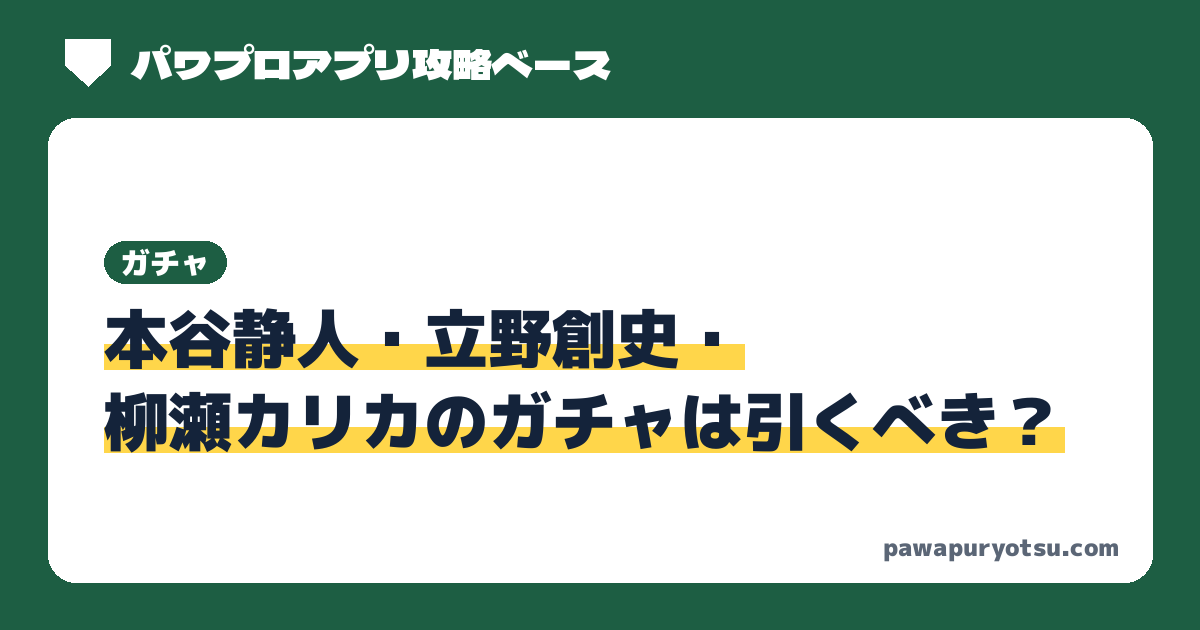
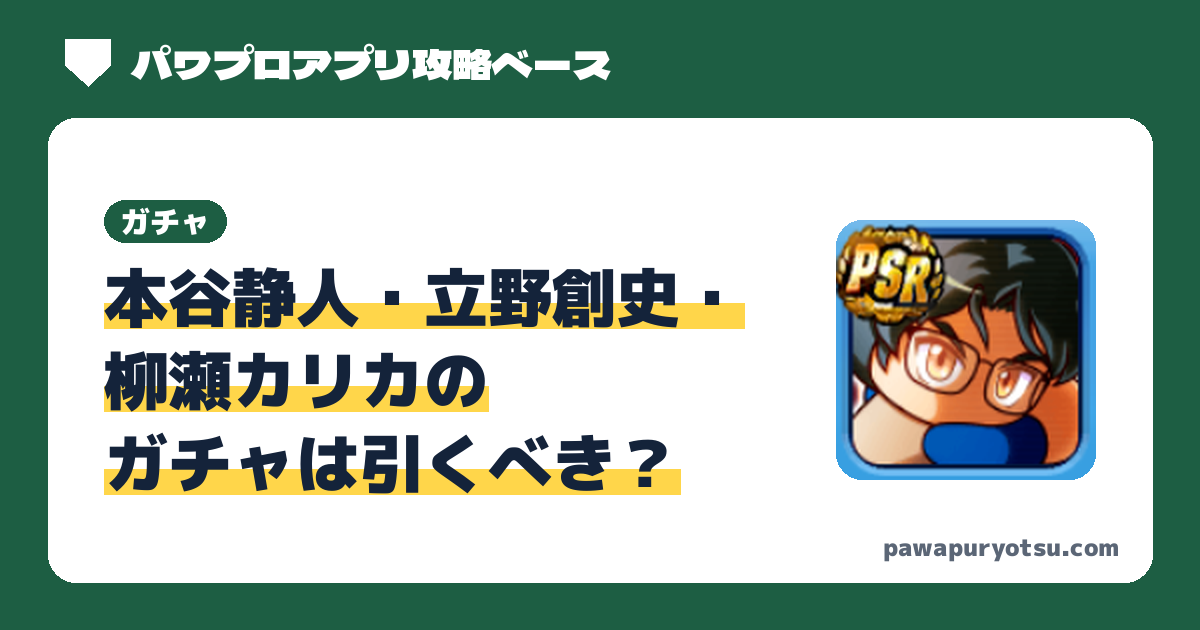
古書館ガチャ記事：管理人の評価とアイコンを追加
Claude-Session: https://claude.ai/code/session_019YJeSx5dxs1nGuihVMdo1E

Changed region(s): [[0.0617, 0.3016, 0.925, 0.7841]]

diff --git a/docs/index.html b/docs/index.html
@@ -24,7 +24,7 @@
 <link rel="preconnect" href="https://fonts.googleapis.com">
 <link rel="preconnect" href="https://fonts.gstatic.com" crossorigin>
 <link rel="stylesheet" href="https://fonts.googleapis.com/css2?family=Dela+Gothic+One&family=M+PLUS+1p:wght@900&family=Zen+Kaku+Gothic+New:wght@400;500;700;900&family=Saira+Condensed:wght@600;700&display=swap">
-<link rel="stylesheet" href="./assets/style.css?v=c98ad340">
+<link rel="stylesheet" href="./assets/style.css?v=90712465">
 <meta name="google-adsense-account" content="ca-pub-8546020269968696">
 <script async src="https://pagead2.googlesyndication.com/pagead/js/adsbygoogle.js?client=ca-pub-8546020269968696" crossorigin="anonymous"></script>
 <script async src="https://www.googletagmanager.com/gtag/js?id=G-F98XGNW3LS"></script>
@@ -71,10 +71,11 @@
 </section>
 
 <h2 class="sec"><span class="mk red"><i>最近の更新</i></span></h2>
-<!--recent--><ul class="news recent"><li class=rc-noimg data-until="2026-12-17T14:00"><a href="./success/koshokan/"><span><small class="rc-meta">2026/11/26 公開</small><b>古書館高校の攻略</b></span></a></li><li data-until="2026-12-10T14:00"><a href="./chars/0045/"><img class="news-icon" src="./img/chars/0045.png" alt="" width="44" height="44" loading="lazy"><span><small class="rc-meta">2026/11/26 公開・イベキャラ</small><b>立野創史のデータ</b></span></a></li><li data-until="2026-12-10T14:00"><a href="./chars/0044/"><img class="news-icon" src="./img/chars/0044.png" alt="" width="44" height="44" loading="lazy"><span><small class="rc-meta">2026/11/26 公開・イベキャラ</small><b>柳瀬カリカのデータ</b></span></a></li><li data-until="2026-12-10T14:00"><a href="./chars/0043/"><img class="news-icon" src="./img/chars/0043.png" alt="" width="44" height="44" loading="lazy"><span><small class="rc-meta">2026/11/26 公開・イベキャラ</small><b>本谷静人のデータ</b></span></a></li><li data-until="2026-12-04T14:00"><a href="./gacha/2026_1116_shido_remi/"><img class="news-icon" src="./img/chars/0010.png" alt="" width="44" height="44" loading="lazy"><span><small class="rc-meta">2026/11/17 公開・ガチャ</small><b>[エアギター]志藤玲美<wbr><span class="cp-nw">の復刻ガチャは引くべき？</span></b></span></a></li><li data-until="2026-12-06T14:00"><a href="./pawaque/saikyuki/"><img class="news-icon news-logo" src="./img/pawaque/saikyuki_logo.png" alt="" width="80" height="44" loading="lazy"><span><small class="rc-meta">2026/11/26 更新・パワクエ</small><b>パワクエ西球記の攻略</b></span></a></li><li class=rc-noimg data-until="9999-12-31T00:00"><a href="./ranking/next_batter/"><span><small class="rc-meta">2026/11/11 公開・ランキング</small><b>古書館高校 有能キャラ予想</b></span></a></li><li class=rc-noimg data-until="9999-12-31T00:00"><a href="./ranking/roman/"><span><small class="rc-meta">2026/11/05 公開・ランキング</small><b>ロマン開花學園 11月ランキング</b></span></a></li><li class=rc-noimg data-until="9999-12-31T00:00"><a href="./ranking/andromeda/"><span><small class="rc-meta">2026/11/05 公開・ランキング</small><b>アンドロメダ学園 11月ランキング</b></span></a></li></ul><script>(function(){var d=new Date(Date.now()+9*36e5).toISOString().slice(0,16),n=0;document.querySelectorAll('.news.recent li').forEach(function(li){var u=li.getAttribute('data-until');if((u&&u<=d)||n>=8)li.remove();else n++;});})();</script><!--/recent-->
+<!--recent--><ul class="news recent"><li class=rc-noimg data-until="2026-12-17T14:00"><a href="./success/koshokan/"><span><small class="rc-meta">2026/11/26 公開</small><b>古書館高校の攻略</b></span></a></li><li data-until="2027-02-01T14:00"><a href="./gacha/2026_1126_koshokan/"><img class="news-icon" src="./img/chars/0043.png" alt="" width="44" height="44" loading="lazy"><span><small class="rc-meta">2026/11/26 公開・ガチャ</small><b>本谷静人・立野創史・柳瀬カリカ<wbr><span class="cp-nw">のガチャは引くべき？</span></b></span></a></li><li data-until="2026-12-09T14:00"><a href="./chars/0045/"><img class="news-icon" src="./img/chars/0045.png" alt="" width="44" height="44" loading="lazy"><span><small class="rc-meta">2026/11/25 公開・イベキャラ</small><b>立野創史<wbr><span class="cp-nw">のイベント</span></b></span></a></li><li data-until="2026-12-09T14:00"><a href="./chars/0044/"><img class="news-icon" src="./img/chars/0044.png" alt="" width="44" height="44" loading="lazy"><span><small class="rc-meta">2026/11/25 公開・イベキャラ</small><b>柳瀬カリカ<wbr><span class="cp-nw">のイベント</span></b></span></a></li><li data-until="2026-12-09T14:00"><a href="./chars/0043/"><img class="news-icon" src="./img/chars/0043.png" alt="" width="44" height="44" loading="lazy"><span><small class="rc-meta">2026/11/25 公開・イベキャラ</small><b>本谷静人<wbr><span class="cp-nw">のイベント</span></b></span></a></li><li data-until="2026-12-14T14:00"><a href="./pawaque/saikyuki/"><img class="news-icon news-logo" src="./img/pawaque/saikyuki_logo.png" alt="" width="80" height="44" loading="lazy"><span><small class="rc-meta">2026/11/26 更新・パワクエ</small><b>パワクエ西球記の攻略</b></span></a></li><li class=rc-noimg data-until="9999-12-31T00:00"><a href="./ranking/roman/"><span><small class="rc-meta">2026/11/22 公開・ランキング</small><b>ロマン開花學園 11月ランキング</b></span></a></li><li class=rc-noimg data-until="9999-12-31T00:00"><a href="./ranking/next_batter/"><span><small class="rc-meta">2026/11/22 公開・ランキング</small><b>古書館高校 有能キャラ予想</b></span></a></li><li class=rc-noimg data-until="9999-12-31T00:00"><a href="./ranking/andromeda/"><span><small class="rc-meta">2026/11/22 公開・ランキング</small><b>アンドロメダ学園 11月ランキング</b></span></a></li><li data-until="2026-12-04T14:00"><a href="./gacha/2026_1116_shido_remi/"><img class="news-icon" src="./img/chars/0010.png" alt="" width="44" height="44" loading="lazy"><span><small class="rc-meta">2026/11/22 公開・ガチャ</small><b>[エアギター]志藤玲美<wbr><span class="cp-nw">の復刻ガチャは引くべき？</span></b></span></a></li><li data-until="2026-12-06T14:00"><a href="./chars/0042/"><img class="news-icon" src="./img/chars/0042.png" alt="" width="44" height="44" loading="lazy"><span><small class="rc-meta">2026/11/22 公開・イベキャラ</small><b>シャンプー<wbr><span class="cp-nw">のイベント・評価</span></b></span></a></li><li data-until="2026-12-06T14:00"><a href="./chars/0004/"><img class="news-icon" src="./img/chars/0004.png" alt="" width="44" height="44" loading="lazy"><span><small class="rc-meta">2026/11/22 公開・イベキャラ</small><b>響良牙<wbr><span class="cp-nw">のイベント・評価</span></b></span></a></li><li data-until="2026-12-06T14:00"><a href="./chars/0003/"><img class="news-icon" src="./img/chars/0003.png" alt="" width="44" height="44" loading="lazy"><span><small class="rc-meta">2026/11/22 公開・イベキャラ</small><b>天道あかね<wbr><span class="cp-nw">のイベント・評価</span></b></span></a></li><li data-until="2026-12-06T14:00"><a href="./chars/0002/"><img class="news-icon" src="./img/chars/0002.png" alt="" width="44" height="44" loading="lazy"><span><small class="rc-meta">2026/11/22 公開・イベキャラ</small><b>早乙女乱馬<wbr><span class="cp-nw">のイベント・評価</span></b></span></a></li></ul><script>(function(){var d=new Date(Date.now()+9*36e5).toISOString().slice(0,16),n=0;document.querySelectorAll('.news.recent li').forEach(function(li){var u=li.getAttribute('data-until');if((u&&u<=d)||n>=8)li.remove();else n++;});})();</script><!--/recent-->
 
 <h2 class="sec"><span class="mk orange"><i>ガチャ</i></span></h2>
 <div class="grid2 hg">
+  <a class="scard gcard" href="./gacha/2026_1126_koshokan/"><span class="gc-icons"><img src="./img/chars/0043.png" alt="" width="48" height="48" loading="lazy"><img src="./img/chars/0045.png" alt="" width="48" height="48" loading="lazy"><img src="./img/chars/0044.png" alt="" width="48" height="48" loading="lazy"></span><span class="tag p">本谷静人・立野創史・柳瀬カリカ</span><h3><span class="cp-nw">本谷静人・立野創史・柳瀬カリカの</span><span class="cp-nw">ガチャは</span><span class="cp-nw">引くべき？</span></h3><p>SR Lv45・PSR Lv50の完成確率と<span class="cp-nw">シミュレータ。</span></p><span class="go" aria-hidden="true">→</span></a>
   <a class="scard gcard" href="./gacha/2026_1116_shido_remi/"><span class="gc-icons"><img src="./img/chars/0010.png" alt="" width="48" height="48" loading="lazy"></span><span class="tag p">[エアギター]志藤玲美</span><h3><span class="cp-nw">[エアギター]志藤玲美の</span><span class="cp-nw">復刻ガチャは</span><span class="cp-nw">引くべき？</span></h3><p>SR Lv45・PSR Lv50の完成確率と<span class="cp-nw">シミュレータ。</span></p><span class="go" aria-hidden="true">→</span></a>
   <a class="scard" href="./gacha/past/"><h3>過去のガチャ</h3><p>ガチャ期間が終了したガチャの<span class="cp-nw">記事をまとめています。</span></p><span class="go" aria-hidden="true">→</span></a>
 </div>

diff --git a/docs/gacha/2026_1126_koshokan/index.html b/docs/gacha/2026_1126_koshokan/index.html
@@ -24,7 +24,7 @@
 <link rel="preconnect" href="https://fonts.googleapis.com">
 <link rel="preconnect" href="https://fonts.gstatic.com" crossorigin>
 <link rel="stylesheet" href="https://fonts.googleapis.com/css2?family=Dela+Gothic+One&family=M+PLUS+1p:wght@900&family=Zen+Kaku+Gothic+New:wght@400;500;700;900&family=Saira+Condensed:wght@600;700&display=swap">
-<link rel="stylesheet" href="../../assets/style.css?v=c98ad340">
+<link rel="stylesheet" href="../../assets/style.css?v=90712465">
 <meta name="google-adsense-account" content="ca-pub-8546020269968696">
 <script async src="https://pagead2.googlesyndication.com/pagead/js/adsbygoogle.js?client=ca-pub-8546020269968696" crossorigin="anonymous"></script>
 <script async src="https://www.googletagmanager.com/gtag/js?id=G-F98XGNW3LS"></script>
@@ -59,8 +59,8 @@
 <nav class="crumbs" aria-label="パンくずリスト"><ol><li><a href="../../">トップ</a></li><li aria-current="page">本谷静人・立野創史・柳瀬カリカのガチャ</li></ol></nav>
 <section class="phead"><p class="eyebrow">ガチャ</p><h1><span class="mk"><i>本谷静人・</i><i>立野創史・</i><i>柳瀬カリカの</i> <i>ガチャは</i> <i>引くべき？</i></span></h1><p class="pubdate">公開日 <time datetime="2026-11-26">2026/11/26</time>・更新日 <time datetime="2026-11-26">2026/11/26</time></p><p>ループガチャ 古書館高校デビューで、本谷静人・立野創史・柳瀬カリカのSR Lv45・PSR Lv50を作るのに何周必要かを<span class="cp-nw">計算しました。</span>引くべきか迷っている人は、下の確率と<span class="cp-nw">石の数を目安にしてください。</span></p></section>
 <div class="prose">
-  <div class="g-info"><p>開催期間：<span class="cp-nw">2026年11月26日(木)</span>メンテナンス終了後〜<span class="cp-nw">2月1日(月)8:59</span></p><p class="g-meta"><span><a href="../../chars/0043/">本谷静人の<span class="cp-nw">データ・イベントはこちら</span></a></span></p><p class="g-meta"><span><a href="../../chars/0045/">立野創史の<span class="cp-nw">データ・イベントはこちら</span></a></span></p><p class="g-meta"><span><a href="../../chars/0044/">柳瀬カリカの<span class="cp-nw">データ・イベントはこちら</span></a></span></p></div>
-  
+  <div class="g-info"><p>開催期間：<span class="cp-nw">2026年11月26日(木)</span>メンテナンス終了後〜<span class="cp-nw">2月1日(月)8:59</span></p><p class="g-meta"><img src="../../img/chars/0043.png" alt="" width="44" height="44"><span><a href="../../chars/0043/">本谷静人の<span class="cp-nw">データ・イベントはこちら</span></a></span></p><p class="g-meta"><img src="../../img/chars/0045.png" alt="" width="44" height="44"><span><a href="../../chars/0045/">立野創史の<span class="cp-nw">データ・イベントはこちら</span></a></span></p><p class="g-meta"><img src="../../img/chars/0044.png" alt="" width="44" height="44"><span><a href="../../chars/0044/">柳瀬カリカの<span class="cp-nw">データ・イベントはこちら</span></a></span></p></div>
+  <h2 id="eval">管理人の評価</h2><p><span class="tx-bold">結論：27日から開催される最強決定戦で上位を狙うなら必須になります。常設キャラなので、まったりプレイする人は焦らなくてもOKです。</span></p><p>新シナリオの古書館高校のシナリオ所属キャラクターであり、<span class="tx-b tx-bold">メインデッキに1人でもセットすれば金特獲得時の経験点が上がったり、矢部の特別なイベントが発生する</span>といったアドバンテージがあります。</p><p>そのため、現段階では誰かしら1人はメインデッキに入れる必要があり、27日からの最強決定戦で上位を狙うなら必須になる見込みです。</p><p>ただし、<span class="tx-r tx-bold">ガチャ自体は3キャラピックアップという事もあって上限開放がしにくい</span>ため深追いは厳禁です。</p><p>また常設キャラクター扱いなのでいずれ他のガチャやガチャ券で入手できる事を考えると、マイペースでプレイする人は焦ってガチャしなくてもいいかもしれません。</p><p class="cp-evdate"><span class="rk-date">【記入日2026/11/26】</span></p>
 
   <h2 id="result">何周で完成する？</h2>
   <div class="g-goal g-chs" role="group" aria-label="キャラ"><button type="button" data-chb="motoya">本谷静人</button><button type="button" data-chb="tateno">立野創史</button><button type="button" data-chb="yanase">柳瀬カリカ</button></div><p class="muted">キャラを切り替えると、下の確率とシミュレータが切り替わります。</p>

diff --git a/docs/chars/0043/index.html b/docs/chars/0043/index.html
@@ -64,7 +64,7 @@
 <section class="cp-sec"><h2>本谷静人<span class="cp-tail">のコンボイベント</span></h2><div class="cp-combo"><h3 class="cp-ev cp-ev-combo">どんな本？</h3><table class="cp-basic"><tbody><tr><th>コンボキャラ</th><td><span class="cp-nw"><b>本谷静人</b></span>、<wbr><span class="cp-nw"><a href="../../chars/0015/">初白百合</a></span></td></tr><tr><th>イベント前後</th><td><span class="cp-evtag cp-ev-pre">前</span></td></tr></tbody></table><div class="cp-tbl-wrap"><table class="cp-tbl"><thead><tr><th></th><th>＋</th><th>その他</th></tr></thead><tbody><tr><th class="">現代小説か・・・</th><td><div>本谷評価+5</div><div>初白評価+5</div><div>敏捷(変化球)++</div><div>技術++</div></td><td><div class="cp-t-lab">【野手】</div><div class="cp-kotsu">固め打ち<wbr>コツLv2</div><div class="cp-t-lab">【投手】</div><div>調査中</div></td></tr><tr><th class="">古典の翻訳本？</th><td><div>本谷評価+5</div><div>初白評価+5</div><div>技術++</div><div>精神++</div></td><td><div class="cp-t-lab">【野手】</div><div class="cp-kotsu">孤高<wbr>コツLv2</div><div class="cp-t-lab">【投手】</div><div>調査中</div></td></tr></tbody></table></div></div></section>
 <section class="cp-sec" id="eval"><h2>本谷静人<span class="cp-tail">の評価</span></h2><p class=muted>準備中です。</p></section>
 <section class="cp-sec" id="ability"><h2>本谷静人<span class="cp-tail">の選手能力</span></h2><table class="cp-basic"><tbody><tr><th>選手ランク</th><td><div class="rkline"><span class="rk rk-C" aria-label="ランクC">C</span><b class="nm">66</b></div></td></tr><tr><th>メインポジション</th><td>三</td></tr><tr><th>サブポジション</th><td>なし</td></tr><tr><th>利き腕</th><td>右投左打</td></tr></tbody></table><h3>野手能力</h3><div class="cp-tiles" style="--n:7"><div class="at"><span class="lb">弾道</span><svg class="traj" viewBox="-20 -20 40 40" role="img" aria-label="弾道2"><g transform="rotate(-25)"><path d="M-15 -5H2V-13L16 0L2 13V5H-15Z" fill="#ff9a1a" stroke="#fff" stroke-width="2" stroke-linejoin="round"/></g></svg><b class="nm">2</b></div><div class="at"><span class="lb">ミート</span><span class="rk rk-B" aria-label="ランクB">B</span><b class="nm">74</b></div><div class="at"><span class="lb">パワー</span><span class="rk rk-D" aria-label="ランクD">D</span><b class="nm">53</b></div><div class="at"><span class="lb">走力</span><span class="rk rk-C" aria-label="ランクC">C</span><b class="nm">65</b></div><div class="at"><span class="lb">肩力</span><span class="rk rk-D" aria-label="ランクD">D</span><b class="nm">57</b></div><div class="at"><span class="lb">守備力</span><span class="rk rk-C" aria-label="ランクC">C</span><b class="nm">68</b></div><div class="at"><span class="lb">捕球</span><span class="rk rk-B" aria-label="ランクB">B</span><b class="nm">73</b></div></div><h3>投手能力</h3><div class="cp-tiles" style="--n:3"><div class="at"><span class="lb">球速</span><b class="nm">120<small>km/h</small></b></div><div class="at"><span class="lb">コントロール</span><span class="rk rk-G" aria-label="ランクG">G</span><b class="nm">1</b></div><div class="at"><span class="lb">スタミナ</span><span class="rk rk-G" aria-label="ランクG">G</span><b class="nm">1</b></div></div><h3>野手特殊能力</h3><div class="cp-sp"><span class="sp sp-red">チャンス△</span><span class="sp sp-blue">アベレージヒッター</span><span class="sp sp-blue">バント○</span><span class="sp sp-blue">チャンスメーカー</span><span class="sp sp-blue">盗塁アシスト</span><span class="sp sp-blue">守備移動○</span><span class="sp sp-blue">堅実な守備</span></div><h3>投手特殊能力</h3><div class="cp-sp"><span class="sp sp-blue">打たれ強さ○</span><span class="sp sp-blue">要所○</span><span class="sp sp-blue">緊急登板○</span><span class="sp sp-blue">火消し</span><span class="sp sp-blue">回またぎ○</span></div><h3>その他特殊能力</h3><div class="cp-sp"><span class="sp sp-green">慎重打法</span><span class="sp sp-green">選球眼</span><span class="sp sp-green">チームプレイ○</span></div></section>
-<section class="cp-sec"><h2>関連ページ</h2><ul class="rk-list cp-rel"><li><a href="../../chars/">イベキャラ一覧</a></li></ul></section>
+<section class="cp-sec"><h2>関連ページ</h2><ul class="rk-list cp-rel"><li><a href="../../chars/">イベキャラ一覧</a></li><li><a href="../../gacha/2026_1126_koshokan/">本谷静人・立野創史・柳瀬カリカのガチャは引くべき？</a></li></ul></section>
 </div></main>
 
 <footer class="site"><div class="wrap">

diff --git a/docs/chars/0044/index.html b/docs/chars/0044/index.html
@@ -64,7 +64,7 @@
 <section class="cp-sec"><h2>柳瀬カリカ<span class="cp-tail">のコンボイベント</span></h2><div class="cp-combo"><h3 class="cp-ev cp-ev-combo">我等ニコイチ友情永久不滅</h3><table class="cp-basic"><tbody><tr><th>コンボキャラ</th><td><span class="cp-nw"><a href="../../chars/0045/">立野創史</a></span>、<wbr><span class="cp-nw"><b>柳瀬カリカ</b></span></td></tr><tr><th>イベント前後</th><td><span class="cp-evtag cp-ev-post">後</span></td></tr></tbody></table><div class="cp-tbl-wrap"><table class="cp-tbl"><thead><tr><th></th><th>＋</th><th>その他</th></tr></thead><tbody><tr><th class="">改造ユニフォームについて</th><td><div>立野評価+5</div><div>柳瀬評価+5</div><div>敏捷(変化球)++</div><div>技術++</div></td><td><div class="cp-t-lab">【野手】</div><div class="cp-kotsu">高速チャー<wbr>ジ<wbr>コツLv2</div><div class="cp-t-lab">【投手】</div><div>調査中</div></td></tr><tr><th class="">雑誌の撮影について</th><td><div>立野評価+5</div><div>柳瀬評価+5</div><div>筋力++</div><div>精神++</div></td><td><div class="cp-t-lab">【野手】</div><div class="cp-kotsu">帳尻合わせ<wbr>コツLv2</div><div class="cp-t-lab">【投手】</div><div>調査中</div></td></tr></tbody></table></div></div></section>
 <section class="cp-sec" id="eval"><h2>柳瀬カリカ<span class="cp-tail">の評価</span></h2><p class=muted>準備中です。</p></section>
 <section class="cp-sec" id="ability"><h2>柳瀬カリカ<span class="cp-tail">の選手能力</span></h2><table class="cp-basic"><tbody><tr><th>選手ランク</th><td><div class="rkline"><span class="rk rk-C" aria-label="ランクC">C</span><b class="nm">64</b></div></td></tr><tr><th>メインポジション</th><td>二</td></tr><tr><th>サブポジション</th><td>遊〇</td></tr><tr><th>利き腕</th><td>右投右打</td></tr></tbody></table><h3>野手能力</h3><div class="cp-tiles" style="--n:7"><div class="at"><span class="lb">弾道</span><svg class="traj" viewBox="-20 -20 40 40" role="img" aria-label="弾道2"><g transform="rotate(-25)"><path d="M-15 -5H2V-13L16 0L2 13V5H-15Z" fill="#ff9a1a" stroke="#fff" stroke-width="2" stroke-linejoin="round"/></g></svg><b class="nm">2</b></div><div class="at"><span class="lb">ミート</span><span class="rk rk-C" aria-label="ランクC">C</span><b class="nm">63</b></div><div class="at"><span class="lb">パワー</span><span class="rk rk-E" aria-label="ランクE">E</span><b class="nm">42</b></div><div class="at"><span class="lb">走力</span><span class="rk rk-B" aria-label="ランクB">B</span><b class="nm">72</b></div><div class="at"><span class="lb">肩力</span><span class="rk rk-C" aria-label="ランクC">C</span><b class="nm">61</b></div><div class="at"><span class="lb">守備力</span><span class="rk rk-D" aria-label="ランクD">D</span><b class="nm">52</b></div><div class="at"><span class="lb">捕球</span><span class="rk rk-E" aria-label="ランクE">E</span><b class="nm">44</b></div></div><h3>投手能力</h3><div class="cp-tiles" style="--n:3"><div class="at"><span class="lb">球速</span><b class="nm">120<small>km/h</small></b></div><div class="at"><span class="lb">コントロール</span><span class="rk rk-G" aria-label="ランクG">G</span><b class="nm">1</b></div><div class="at"><span class="lb">スタミナ</span><span class="rk rk-G" aria-label="ランクG">G</span><b class="nm">1</b></div></div><h3>野手特殊能力</h3><div class="cp-sp"><span class="sp sp-green">調子安定</span><span class="sp sp-blue">ハイボールヒッター</span><span class="sp sp-blue">リベンジ</span><span class="sp sp-blue">アウトコース○</span><span class="sp sp-blue">上り調子</span><span class="sp sp-blue">競争心</span></div><h3>投手特殊能力</h3><div class="cp-sp"><span class="sp sp-blue">クイック○</span><span class="sp sp-blue">牽制○</span><span class="sp sp-blue">リリース○</span><span class="sp sp-blue">球持ち○</span><span class="sp sp-blue">緩急○</span></div><h3>その他特殊能力</h3><div class="cp-sp"><span class="sp sp-gold">カリスマ</span><span class="sp sp-blue">ムード○</span></div></section>
-<section class="cp-sec"><h2>関連ページ</h2><ul class="rk-list cp-rel"><li><a href="../../chars/">イベキャラ一覧</a></li></ul></section>
+<section class="cp-sec"><h2>関連ページ</h2><ul class="rk-list cp-rel"><li><a href="../../chars/">イベキャラ一覧</a></li><li><a href="../../gacha/2026_1126_koshokan/">本谷静人・立野創史・柳瀬カリカのガチャは引くべき？</a></li></ul></section>
 </div></main>
 
 <footer class="site"><div class="wrap">

diff --git a/docs/chars/0045/index.html b/docs/chars/0045/index.html
@@ -64,7 +64,7 @@
 <section class="cp-sec"><h2>立野創史<span class="cp-tail">のコンボイベント</span></h2><div class="cp-combo"><h3 class="cp-ev cp-ev-combo">我等ニコイチ友情永久不滅</h3><table class="cp-basic"><tbody><tr><th>コンボキャラ</th><td><span class="cp-nw"><b>立野創史</b></span>、<wbr><span class="cp-nw"><a href="../../chars/0044/">柳瀬カリカ</a></span></td></tr><tr><th>イベント前後</th><td><span class="cp-evtag cp-ev-post">後</span></td></tr></tbody></table><div class="cp-tbl-wrap"><table class="cp-tbl"><thead><tr><th></th><th>＋</th><th>その他</th></tr></thead><tbody><tr><th class="">改造ユニフォームについて</th><td><div>立野評価+5</div><div>柳瀬評価+5</div><div>敏捷(変化球)++</div><div>技術++</div></td><td><div class="cp-t-lab">【野手】</div><div class="cp-kotsu">高速チャー<wbr>ジ<wbr>コツLv2</div><div class="cp-t-lab">【投手】</div><div>調査中</div></td></tr><tr><th class="">雑誌の撮影について</th><td><div>立野評価+5</div><div>柳瀬評価+5</div><div>筋力++</div><div>精神++</div></td><td><div class="cp-t-lab">【野手】</div><div class="cp-kotsu">帳尻合わせ<wbr>コツLv2</div><div class="cp-t-lab">【投手】</div><div>調査中</div></td></tr></tbody></table></div></div></section>
 <section class="cp-sec" id="eval"><h2>立野創史<span class="cp-tail">の評価</span></h2><p class=muted>準備中です。</p></section>
 <section class="cp-sec" id="ability"><h2>立野創史<span class="cp-tail">の選手能力</span></h2><table class="cp-basic"><tbody><tr><th>選手ランク</th><td><div class="rkline"><span class="rk rk-C" aria-label="ランクC">C</span><b class="nm">68</b></div></td></tr><tr><th>メインポジション</th><td>遊</td></tr><tr><th>サブポジション</th><td>二〇</td></tr><tr><th>利き腕</th><td>右投両打</td></tr></tbody></table><h3>野手能力</h3><div class="cp-tiles" style="--n:7"><div class="at"><span class="lb">弾道</span><svg class="traj" viewBox="-20 -20 40 40" role="img" aria-label="弾道3"><g transform="rotate(-45)"><path d="M-15 -5H2V-13L16 0L2 13V5H-15Z" fill="#ff4040" stroke="#fff" stroke-width="2" stroke-linejoin="round"/></g></svg><b class="nm">3</b></div><div class="at"><span class="lb">ミート</span><span class="rk rk-D" aria-label="ランクD">D</span><b class="nm">58</b></div><div class="at"><span class="lb">パワー</span><span class="rk rk-C" aria-label="ランクC">C</span><b class="nm">65</b></div><div class="at"><span class="lb">走力</span><span class="rk rk-D" aria-label="ランクD">D</span><b class="nm">56</b></div><div class="at"><span class="lb">肩力</span><span class="rk rk-C" aria-label="ランクC">C</span><b class="nm">61</b></div><div class="at"><span class="lb">守備力</span><span class="rk rk-B" aria-label="ランクB">B</span><b class="nm">71</b></div><div class="at"><span class="lb">捕球</span><span class="rk rk-C" aria-label="ランクC">C</span><b class="nm">67</b></div></div><h3>投手能力</h3><div class="cp-tiles" style="--n:3"><div class="at"><span class="lb">球速</span><b class="nm">120<small>km/h</small></b></div><div class="at"><span class="lb">コントロール</span><span class="rk rk-G" aria-label="ランクG">G</span><b class="nm">1</b></div><div class="at"><span class="lb">スタミナ</span><span class="rk rk-G" aria-label="ランクG">G</span><b class="nm">1</b></div></div><h3>野手特殊能力</h3><div class="cp-sp"><span class="sp sp-blue">逆境○</span><span class="sp sp-blue">守備職人</span><span class="sp sp-blue">ささやき破り</span><span class="sp sp-blue">対変化球○</span><span class="sp sp-blue">打開</span></div><h3>投手特殊能力</h3><div class="cp-sp"><span class="sp sp-blue">対ピンチ○</span><span class="sp sp-blue">打たれ強さ○</span><span class="sp sp-blue">緩急○</span><span class="sp sp-blue">順応</span><span class="sp sp-blue">手応え</span></div><h3>その他特殊能力</h3><div class="cp-sp"><span class="sp sp-green">積極打法</span><span class="sp sp-green">積極盗塁</span></div></section>
-<section class="cp-sec"><h2>関連ページ</h2><ul class="rk-list cp-rel"><li><a href="../../chars/">イベキャラ一覧</a></li></ul></section>
+<section class="cp-sec"><h2>関連ページ</h2><ul class="rk-list cp-rel"><li><a href="../../chars/">イベキャラ一覧</a></li><li><a href="../../gacha/2026_1126_koshokan/">本谷静人・立野創史・柳瀬カリカのガチャは引くべき？</a></li></ul></section>
 </div></main>
 
 <footer class="site"><div class="wrap">
